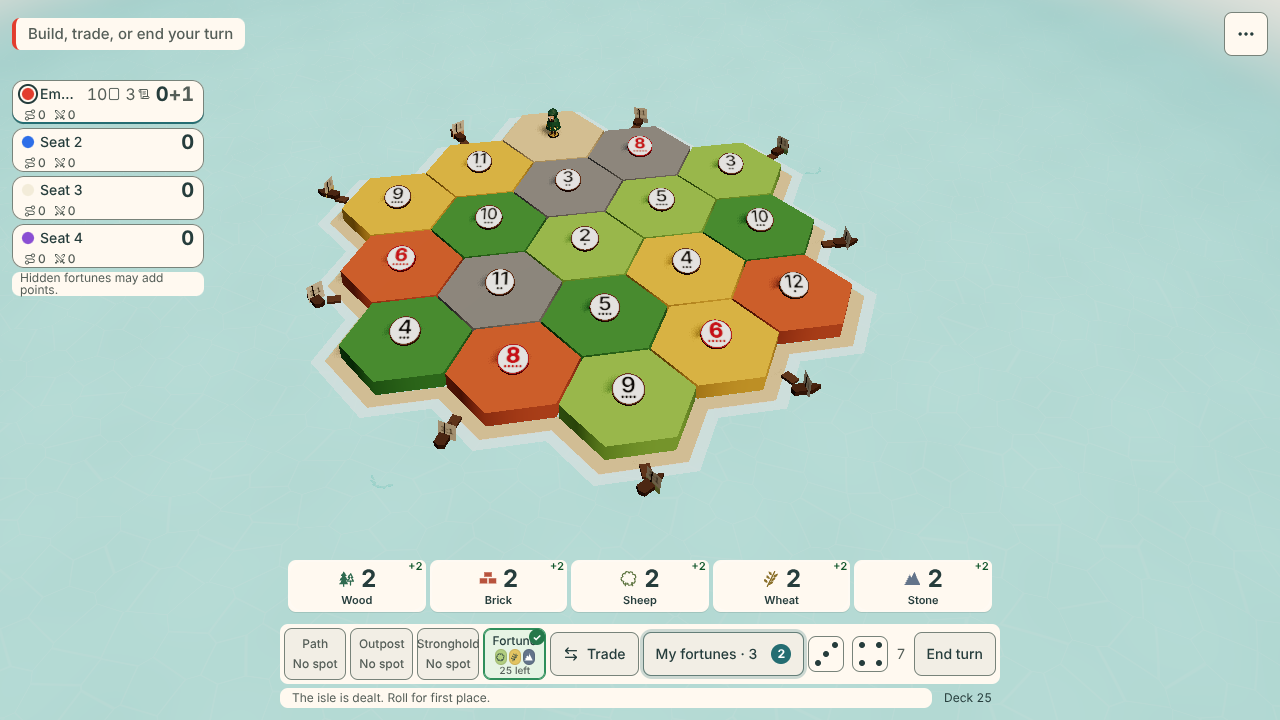
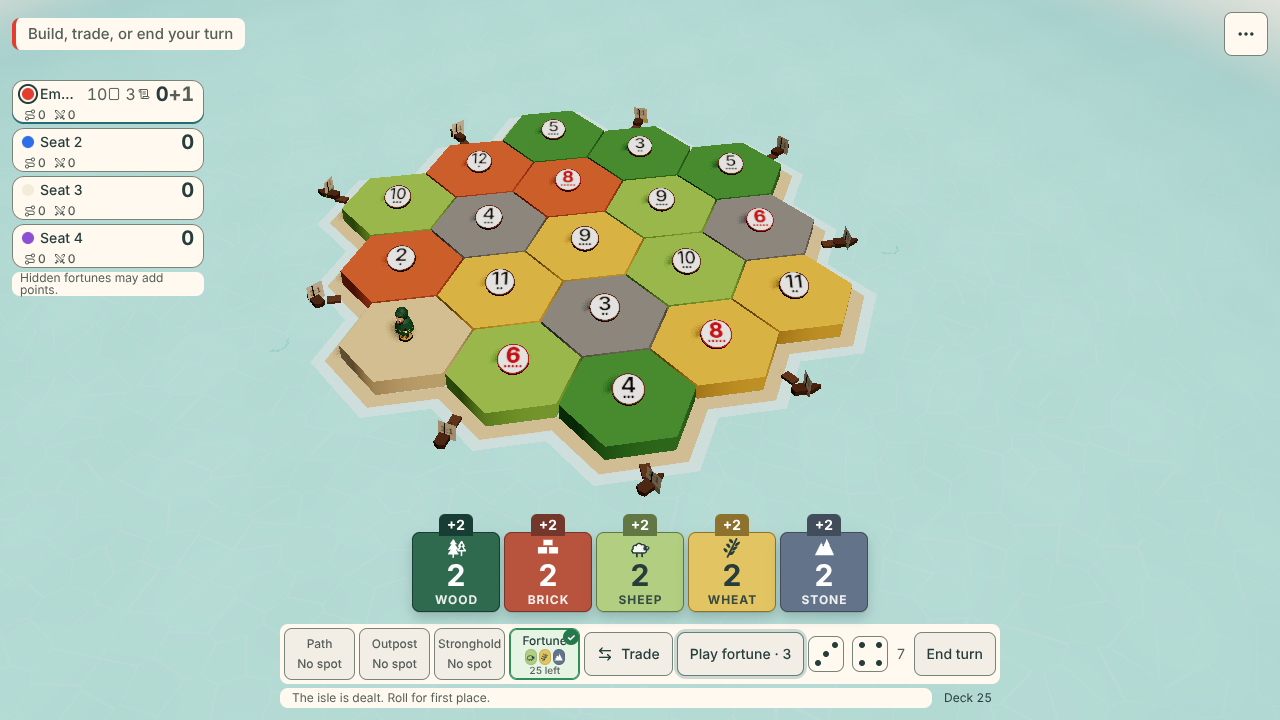
Fortunes button reads Play fortune · N or Fortunes · N; drop the count badge (#829)
Claude-Session: https://claude.ai/code/session_015AcSAVunN4rxBEd67Wi7wN

Changed region(s): [[0.25, 0.1528, 0.6875, 0.6417], [0.2188, 0.7028, 0.7812, 0.9472]]

diff --git a/src/components/game/Hud.tsx b/src/components/game/Hud.tsx
@@ -101,9 +101,9 @@ function armedCopy(mode: BuildMode, roadPicks: number): [string, string] | null 
       return ["Build a stronghold", "Stronghold"];
     // #423: both fortunes are armed from the tray, and the My fortunes button stays pressed until the pick is made or cancelled.
     case "knight":
-      return ["Move the wayfarer", "My fortunes"];
+      return ["Move the wayfarer", "Play fortune"];
     case "roadCard":
-      return [roadPicks ? "Place one more path" : "Place two paths", "My fortunes"];
+      return [roadPicks ? "Place one more path" : "Place two paths", "Play fortune"];
     default:
       return null;
   }
@@ -222,20 +222,21 @@ export function Hud() {
         : (state.discardNeeded[actor] ?? 0) > 0
           ? actor
           : null;
-  // #776: "My fortunes · N" opens the tray of held cards. It shows only while a fortune is held or armed, so a fresh hand has no
+  // #776: "Play fortune · N" or "Fortunes · N" opens the tray of held cards. It shows only while a fortune is held or armed, so a fresh hand has no
   // such button; the deck count lives on the Fortune buy tile.
   const deckLeft = state.deckLeft ?? state.deck.length;
   // #829: on my own turn, the fortunes I can play now (points are never played; ones bought this turn wait). The glow ring is keyed
   // on the turn, so it runs once when the turn starts and no later state change restarts it.
   const playableNow = mine && !spectator && !state.playedCard ? (["knight", "road", "plenty", "monopoly"] as const).reduce((n, k) => n + Math.max(0, playable(me, k)), 0) : 0;
+  // Owner decision (#829, provisional): the label itself says a fortune can be played now.
+  const fortunesLabel = playableNow > 0 ? "Play fortune" : "Fortunes";
   const fortunes = showFortunes ? (
     <Button
       ref={fortunesButton}
       size="sm"
       data-testid="fortunes-button"
       data-deck-left={deckLeft}
-      data-playable={playableNow > 0 ? playableNow : undefined}
-      aria-label={`My fortunes, ${heldNow} held${playableNow > 0 ? `, ${playableNow} playable` : ""}`}
+      aria-label={`${fortunesLabel}, ${heldNow} held`}
       className="relative h-11 min-w-11 px-3 text-sm tabular-nums"
       aria-pressed={fortunesOpen || fortuneArmed}
       aria-expanded={fortunesOpen}
@@ -246,7 +247,7 @@ export function Hud() {
       }}
     >
       {playableNow > 0 && <span key={cueKey} ref={cueRing} onAnimationStart={() => (glowed.current = cueKey)} aria-hidden="true" data-testid="fortune-cue-glow" className="fortune-cue-glow" />}
-      My fortunes · {heldNow}
+      {fortunesLabel} · {heldNow}
     </Button>
   ) : null;
   // Hotseat has no "you": every seat is named. The turn banner sits out once the isle has a ruler (the pill says who).

diff --git a/src/styles.css b/src/styles.css
@@ -321,9 +321,8 @@ input, select, textarea { border-color: var(--control-line); }
 }
 @media (prefers-reduced-motion: reduce) { .my-number-lit { animation: none; } }
 
-/* #829: the My fortunes cue. A count badge while a fortune can be played, and one soft glow when the turn starts (the ring is
+/* #829: the fortunes button cue: one soft glow when the turn starts (the ring is
    keyed on the turn in Hud.tsx). Under reduced motion the ring is a still outline instead. */
-[data-testid="fortunes-button"][data-playable]::after { content: attr(data-playable); margin-left: 6px; display: inline-flex; min-width: 20px; height: 20px; align-items: center; justify-content: center; border-radius: 999px; padding: 0 6px; font-size: 12px; font-weight: 700; background: var(--color-accent); color: #fff; }
 .fortune-cue-glow { position: absolute; inset: 0; border-radius: inherit; pointer-events: none; animation: fortune-cue-glow 1600ms ease-out 1 both; }
 @keyframes fortune-cue-glow {
   0% { box-shadow: 0 0 0 0 rgb(36 109 114 / 0.6); }

diff --git a/docs/DECISIONS.md b/docs/DECISIONS.md
@@ -6,6 +6,7 @@ The review desk adds a line whenever Jarrod decides something.
 
 | Date | Decision | Where |
 |---|---|---|
+| 2026-10-20 | The fortunes button reads "Play fortune · N" when one can be played, else "Fortunes · N" (provisional; Astra's HUD pass may revisit). | [#829](https://github.com/jarrodjohnson-gif/emberisle/issues/829) |
 | 2026-10-20 | Auto-merge only docs and test-only PRs, once a review is clean and CI is green. Game code keeps the desk's final click. | Vote page |
 | 2026-10-20 | Chat C (#918): drop the Chat/All filter row (Copy log moves to the Table menu) and the top-right preview pills. | Vote page |
 | 2026-10-20 | Cursor and Josh's agent are full builders, with Opus available. Josh's agent follows AGENTS.md, not HELPERS.md. | Jarrod, in chat; [`docs/LANES.md`](LANES.md) |
